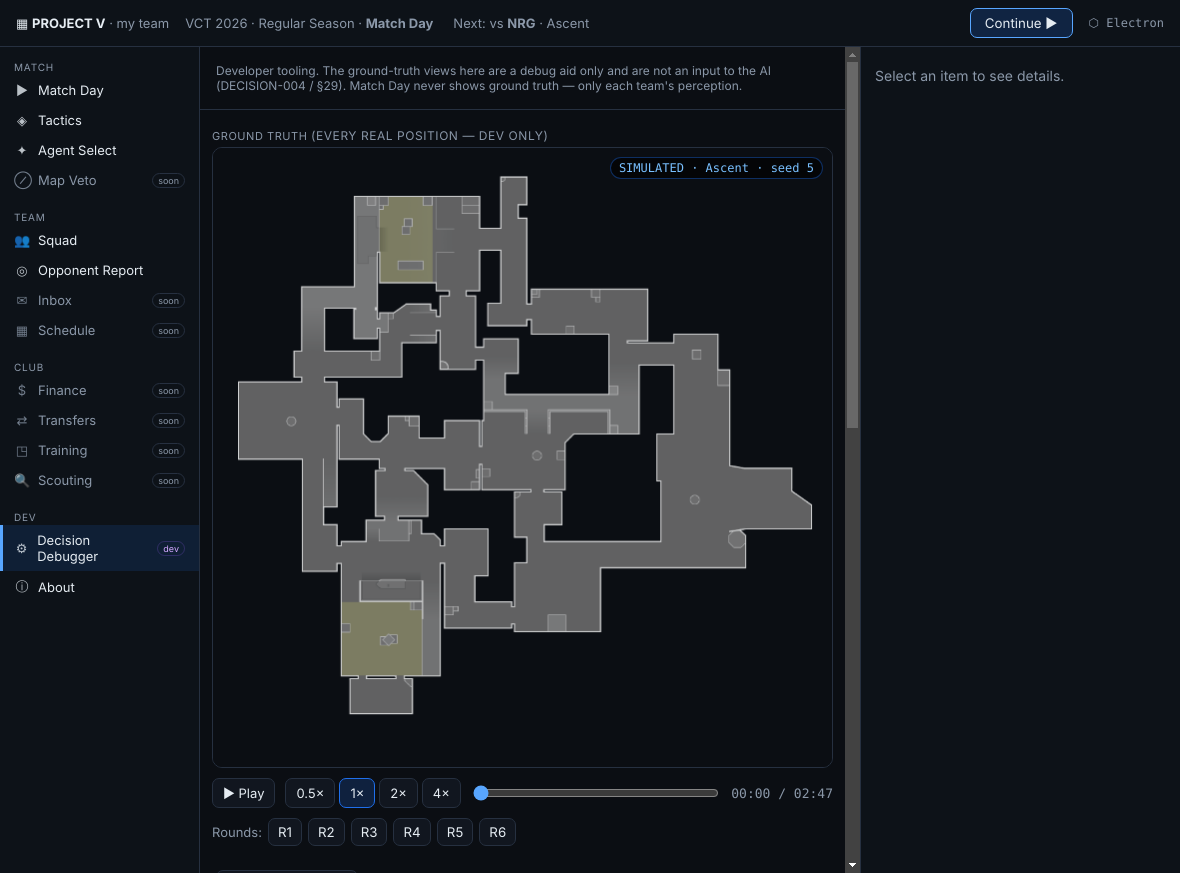
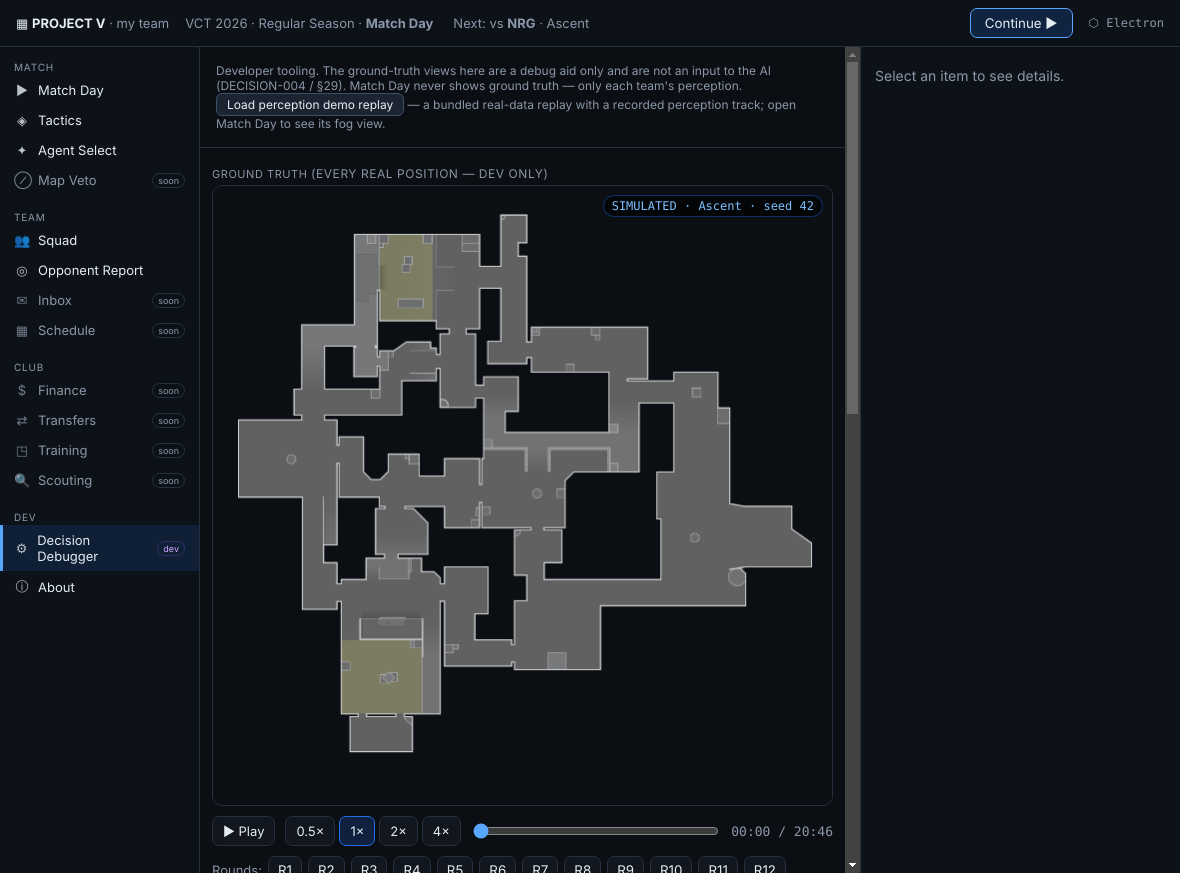
feat(desktop): wire fog-of-war to live match recordPerception; demo → Dev
PV-3 landed MatchConfig.recordPerception (7a7a847), so the live match-runner
now records a perception track on every round. Match Day renders the fog view
and belief heatmap directly from the live match — no fixture needed.

- run-match.mts: drop the forward-compatible cast now that recordPerception
  is a real MatchConfig field; still request it on.
- MatchDay: remove the perception-demo button (fog now comes from the live
  match); keep the POV + belief controls, shown whenever the replay has a
  perception track.
- DevScreen: host the "Load perception demo replay" button here instead — a
  bundled real-data replay for inspecting the fog view on demand.
- e2e: assert + screenshot the fog view on the LIVE match (perception 23/23
  rounds); seek to team-A's richest frame (~round 5) for a clear heatmap.

Verified end to end: live NRG–Team Heretics match, perception 23/23 rounds,
belief heatmap + observed enemies rendering from real match-runner output.

Claude-Session: https://claude.ai/code/session_01LWa7NkbrNBxuB6aZzZDJoJ

diff --git a/apps/desktop/src/renderer/screens/MatchDayScreen.tsx b/apps/desktop/src/renderer/screens/MatchDayScreen.tsx
@@ -15,7 +15,6 @@ import { parseTrace, type DecisionTrace } from '../../shared/trace.ts';
 import type { MatchSummary } from '../../shared/ipc.ts';
 import { teams } from '../data.ts';
 import { ZONE_POSITIONS } from '../zones.ts';
-import perceptionDemo from '../../data/perception-demo.replay.json';
 
 export function MatchDayScreen({ ctx }: { ctx: ScreenCtx }) {
   const [running, setRunning] = useState(false);
@@ -50,13 +49,6 @@ export function MatchDayScreen({ ctx }: { ctx: ScreenCtx }) {
       setMatch(res.match ?? null);
       setSource(res.source);
     } catch (e) { setLog((l) => [...l, `⚠ ${(e as Error).message}`]); } finally { setRunning(false); }
-  }
-
-  // Load a REAL perception-bearing replay (PV-4 recordPerception output, bundled) so the
-  // fog view is demonstrable before PV-3 enables match-level recording on the live match.
-  function loadPerceptionDemo() {
-    ctx.setReplay(perceptionDemo as unknown as Replay);
-    setMatch(null); setSource('perception-demo'); setPov(0); setBeliefOn(true);
   }
 
   const engineLabel = source === 'match-runner' ? '@pv/match-runner (real match, separate process)'
@@ -96,10 +88,7 @@ export function MatchDayScreen({ ctx }: { ctx: ScreenCtx }) {
               <span className="muted small">관측된 적 · 고스트 · 소리 구역 · 진실 시점은 Dev</span>
             </>
           ) : (
-            <>
-              <span className="muted small">fog-of-war + Belief heatmap: live 경기는 PV-3 recordPerception 대기 중</span>
-              <button className="fog-demo" onClick={loadPerceptionDemo} data-testid="load-perception-demo">관측/벨리프 데모 보기</button>
-            </>
+            <span className="muted small">run a match to see the fog-of-war view (observed enemies · belief · sounds)</span>
           )}
         </div>
         {log.length > 0 && <div className="md-roundlog small muted">{log.join('  ·  ')}</div>}

diff --git a/apps/desktop/src/renderer/screens/DevScreen.tsx b/apps/desktop/src/renderer/screens/DevScreen.tsx
@@ -3,8 +3,10 @@
 // The GROUND-TRUTH replay view (every real position) lives here, Dev-only, by
 // design: Match Day shows only each team's fog-of-war perception (DECISION-004).
 import { ReplayViewer } from '@pv/replay-viewer';
+import type { Replay } from '@pv/replay-engine';
 import type { ScreenCtx } from '../App.tsx';
 import { DebuggerScreen } from './DebuggerScreen.tsx';
+import perceptionDemo from '../../data/perception-demo.replay.json';
 
 export function DevScreen({ ctx }: { ctx: ScreenCtx }) {
   return (
@@ -12,6 +14,14 @@ export function DevScreen({ ctx }: { ctx: ScreenCtx }) {
       <div className="dev-note muted small pad">
         Developer tooling. The ground-truth views here are a debug aid only and are not an input to the AI
         (DECISION-004 / §29). Match Day never shows ground truth — only each team's perception.
+        {' '}
+        <button
+          className="fog-demo" data-testid="load-perception-demo"
+          onClick={() => ctx.setReplay(perceptionDemo as unknown as Replay)}
+        >
+          Load perception demo replay
+        </button>
+        <span className="muted small"> — a bundled real-data replay with a recorded perception track; open Match Day to see its fog view.</span>
       </div>
       {ctx.replay && (
         <section className="dev-truth">
